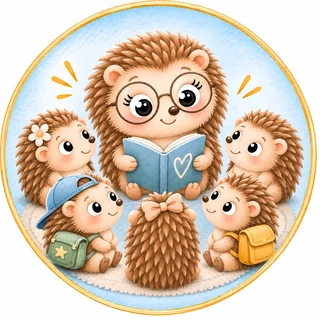
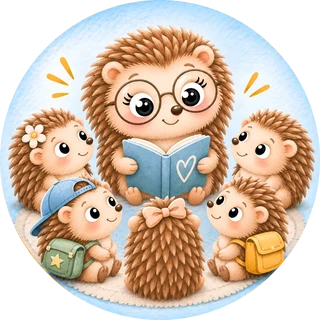
Kreisbilder sauber zugeschnitten, neue Anmeldeseite mit Werkzeug-Galerie und Shop-Knopf
Claude-Session: https://claude.ai/code/session_016s2NAEUroLpKusudZHa85o

diff --git a/app.js b/app.js
@@ -876,7 +876,10 @@
     document.body.classList.add('lp');
     UI.view = 'login';
     paint('<div class="login"><section class="login-hero"><a class="marke" href="#/"><span class="marke-bild"><img src="bilder/eule.webp" alt="" width="60" height="60"></span><span class="marke-text"><b>' + markeName() + '<i aria-hidden="true">✦</i></b><small>für Lehrpersonen</small></span></a>' +
-      '<div class="stack" style="gap:18px"><h1>Ihre Lernspiele an einem Ort.</h1><p>Spiele für die Klasse freigeben, den Fortschritt sehen und die Arbeitsstand-Tafel für den Wochenplan nutzen.</p></div>' +
+      '<div class="stack" style="gap:16px"><span class="login-klein">Für Ihren Schulalltag ✦</span><h1>Lernspiele und Werkzeuge an einem Ort.</h1>' +
+      '<p>Lernspiele freigeben, den Fortschritt der Kinder sehen und Ihre Klassenwerkzeuge nutzen. Alles in einer Klassenkiste, damit Sie nur noch ein Tool brauchen.</p></div>' +
+      '<div class="login-tools">' + LOGIN_TOOLS.map(function (t) {
+        return '<div class="ltool" tabindex="0"><img src="bilder/kacheln/' + t[0] + '.webp" alt="" width="84" height="84"><b>' + t[1] + '</b><span class="ltip" role="tooltip">' + t[2] + '</span></div>'; }).join('') + '</div>' +
       '<a class="kidlink" href="#/klasse">' + ic(I.play, 22) + '<span>Für Kinder: Hier geht\'s zum Klassen-Login</span></a></section>' +
       '<section class="login-form"><form data-a="login" class="stack"><div class="stack" style="gap:8px"><h2 style="font-size:34px">Anmelden</h2>' +
       '<p class="muted">Für Lehrpersonen mit Zugang zur ' + h(C.PORTAL_NAME) + '.</p></div>' +
@@ -886,8 +889,18 @@
       '<button class="btn primary" style="min-height:54px;font-size:18px">Anmelden</button>' +
       '<button type="button" class="btn" data-a="forgot">Passwort vergessen?</button>' +
       (T.loginInfo ? '<p class="note">' + h(T.loginInfo) + '</p>' : '') +
+      '<div class="login-shop"><span>Noch kein Login?</span>' + (C.SHOP_URL ? '<a class="btn amber" href="' + h(C.SHOP_URL) + '" target="_blank" rel="noopener">✦ Hol dir hier deinen Zugang</a>' : '<button type="button" class="btn amber" data-a="shopSoon">✦ Hol dir hier deinen Zugang</button>') + '</div>' +
       '</form></section></div>');
   };
+  var LOGIN_TOOLS = [
+    ['tagesfolie', 'Tagesfolie', 'Der Tag an der Wandtafel: Ablauf, Timer, Stundenplan, Zufallsname und mehr.'],
+    ['vokabelkiste', 'Vokabelkiste', 'Wörter üben mit Karteikasten, Spielen, Tagessternen und Fortschritt pro Kind.'],
+    ['hausaufgaben', 'Hausaufgabenheft', 'Aufgaben eintragen, kontrollieren, und die Kinder sehen alles am iPad.'],
+    ['arbeitsstand', 'Arbeitsstand', 'Wer kann helfen, wer hat eine Frage? Live an der Wandtafel.'],
+    ['pinnwand', 'Pinnwand', 'Ideen sammeln und gemeinsam abstimmen.'],
+    ['otterteich', 'Otterteich', 'Je leiser die Klasse, desto mehr Otter kommen an den Teich.'],
+    ['atelier', 'Atelier', 'Jedes Kind zeigt auf dem Lernpfad, wo es gerade steht.']];
+  ACT.shopSoon = function () { toast('Der Shop kommt bald. Melden Sie sich bis dahin bei ' + C.CONTACT + '.'); };
   ACT.login = async function (f) {
     T.loginErr = ''; T.loginEmail = f.elements.email.value.trim();
     try { await DB.signIn(T.loginEmail, f.elements.pw.value); }

diff --git a/style.css b/style.css
@@ -756,3 +756,31 @@ body.tt-dragging .tooltiles [data-tile]:not(.dragging){transition:transform .15s
 body.kidv .ic.ic-bild{flex:none;width:84px!important;height:84px!important;padding:0!important;border:0!important;background:none!important;border-radius:50%!important;box-shadow:0 6px 14px rgba(63,120,168,.2)!important;display:block!important;overflow:hidden}
 body.kidv .ic.ic-bild img{width:100%;height:100%;display:block;border-radius:50%}
 body.kidv .big-tile .ic.ic-bild{width:96px!important;height:96px!important}
+
+/* ---- Version 87: Kreisbilder mit eigenem Goldrand, neue Anmeldeseite ---- */
+body.lp .tooltile .tti.bild,body.kidv .ic.ic-bild{border:3px solid #d6ad45!important;box-shadow:0 0 0 3px #fff,0 6px 14px rgba(63,120,168,.2)!important;background:#fff!important}
+.banner-bild img,.kid-bild,.board-bild,.bildopt img{object-fit:cover}
+.login-klein{font-size:16px;letter-spacing:.12em;text-transform:uppercase;color:#3f78a8}
+body.lp .login-hero{justify-content:flex-start;gap:34px}
+body.lp .login-hero h1{font-size:clamp(38px,5vw,58px);font-weight:400;line-height:1.05}
+body.lp .login-hero p{color:#5f6963}
+.login-tools{display:grid;grid-template-columns:repeat(auto-fill,minmax(112px,1fr));gap:16px 10px;margin-top:auto}
+.ltool{position:relative;display:flex;flex-direction:column;align-items:center;gap:6px;text-align:center;cursor:default;outline:0}
+.ltool img{width:84px;height:84px;border-radius:50%;border:3px solid #d6ad45;box-shadow:0 0 0 3px #fff,0 8px 18px rgba(63,120,168,.2);background:#fff;transition:transform .25s}
+.ltool:hover img,.ltool:focus img{transform:translateY(-4px) rotate(-4deg) scale(1.06)}
+.ltool b{font-weight:400;font-size:18px;line-height:1.1}
+.ltip{position:absolute;bottom:calc(100% + 8px);left:50%;transform:translate(-50%,6px);width:220px;padding:10px 14px;border-radius:16px;background:#fff;border:1.5px solid #d6ad45;box-shadow:0 12px 28px rgba(63,120,168,.25);font-size:15px;line-height:1.35;color:#1f2421;opacity:0;pointer-events:none;transition:opacity .2s,transform .2s;z-index:5}
+.ltip::after{content:"";position:absolute;top:100%;left:50%;margin-left:-7px;border:7px solid transparent;border-top-color:#d6ad45}
+.ltool:hover .ltip,.ltool:focus .ltip{opacity:1;transform:translate(-50%,0)}
+body.lp .kidlink{margin-top:4px}
+.login-shop{display:flex;flex-direction:column;align-items:stretch;gap:8px;margin-top:10px;padding-top:18px;border-top:1.5px dashed rgba(214,173,69,.6);text-align:center;color:#5f6963}
+.login-shop .btn{min-height:50px;justify-content:center}
+.login-tools{grid-template-columns:repeat(auto-fill,minmax(82px,1fr))}
+.ltool img{width:72px;height:72px}
+.ltool b{font-size:16px}
+@media (max-width:760px){.login-hero,.login-form{flex:1 1 100%;min-width:0}.login-form{order:-1;padding:32px 20px 8px}}
+.ltip{width:min(220px,calc(100vw - 40px))}
+.ltool:first-child .ltip,.ltool:nth-child(3n+1) .ltip{left:0;transform:translate(0,6px)}
+.ltool:first-child:hover .ltip,.ltool:nth-child(3n+1):hover .ltip,.ltool:nth-child(3n+1):focus .ltip{transform:translate(0,0)}
+.ltool:first-child .ltip::after,.ltool:nth-child(3n+1) .ltip::after{left:36px}
+.login{overflow-x:hidden}

diff --git a/index.html b/index.html
@@ -9,15 +9,15 @@
 <link rel="preconnect" href="https://fonts.googleapis.com">
 <link rel="preconnect" href="https://fonts.gstatic.com" crossorigin>
 <link rel="stylesheet" href="https://fonts.googleapis.com/css2?family=Andika:wght@400;700&family=Fredoka:wght@400;500;600;700&display=swap">
-<link rel="stylesheet" href="style.css?v=86">
+<link rel="stylesheet" href="style.css?v=87">
 </head>
 <body>
 <div id="app" aria-live="polite"><p class="boot">Klassenkiste wird geladen …</p></div>
 <div id="print" aria-hidden="true"></div>
 <div id="toast" class="toast" role="status" aria-live="polite"></div>
 <script src="https://cdn.jsdelivr.net/npm/@supabase/supabase-js@2.105.0/dist/umd/supabase.js"></script>
-<script src="config.js?v=86"></script>
-<script src="db.js?v=86"></script>
-<script src="app.js?v=86"></script>
+<script src="config.js?v=87"></script>
+<script src="db.js?v=87"></script>
+<script src="app.js?v=87"></script>
 </body>
 </html>

diff --git a/config.js b/config.js
@@ -4,6 +4,8 @@ window.KN_CONFIG = {
   PORTAL_NAME: 'Klassenkiste',
   TAGLINE: 'Lernspiele für die Primarschule',
   CONTACT: 'primarschuleulchen@hotmail.com',
+  // Link zum Shop für «Noch kein Login?» (leer = Hinweis «kommt bald»)
+  SHOP_URL: '',
 
   // Verbindung zur Datenbank (Supabase). Der «Publishable key» darf öffentlich sein.
   SUPABASE_URL: 'https://nqqepdfupfmzghcjlkun.supabase.co',

diff --git a/CLAUDE.md b/CLAUDE.md
@@ -7,6 +7,7 @@ Knobelnest (sichtbarer Name: **«Klassenkiste»**, `C.PORTAL_NAME` in `config.js
 - Tafel-Spalten (Version 21): `classes.tafel_cols = {list:[{id,label,color}]}` (höchstens 6, `colList()`/`setTafelCols()`, Editor `colEditor()`); ohne `list` die drei Standardspalten. `tafel_set` prüft mit `_tafel_col_ok`. «helfen»/«frage» behalten ihre Sonderrolle (Hilfe-Hinweis).
 - Lehrperson: Reihenfolge der Werkzeug-Kacheln pro Lehrperson in `teacher_store` «kacheln» (`tileOrder()`; Kacheln direkt ziehen, Pointer-Events `tdStart`/`tdMove`, Finger nach 380 ms Halten). Tier-Vorlagen fürs Klassenbild in `bilder/maskottchen/` (`TIERE`).
 - Lehrperson: Reiter «Übersicht» (`T.tab = 'uebersicht'`, Start und Klick aufs Logo) = Klassen-Banner mit Werkzeug-Kacheln; Reiter «Spiele» = Fächer und Spiele (beides `T.tabSpiele`). Kachel-Bilder in `bilder/kacheln/` (`KACHEL_BILD`, `ttIcon()`).
+- Anmeldeseite: Werkzeug-Galerie mit Vorschau beim Darüberfahren (`LOGIN_TOOLS`), Knopf «Noch kein Login?» → `C.SHOP_URL` in `config.js` (leer = Hinweis «kommt bald»). Kreisbilder in `bilder/kacheln/` und `bilder/maskottchen/` sind rund zugeschnitten (durchsichtige Ecken), den Goldrand macht das CSS.
 - Kinderansicht: `body.kidv` (in `K.render`), heller Stil wie die Lehrpersonen-Seite, Schriften Fredoka/Andika bleiben. Startseite ohne Kopfleiste, «Abmelden» neben der Begrüssung (`K.shell(body, null)`).
 - Seite: https://primarschuleulchen.github.io/knobelnest/ (GitHub Pages, Branch `main`, Hauptordner)
 - Kinder: `…/knobelnest/#/klasse`
@@ -114,7 +115,7 @@ So läuft ein Werkzeug im Portal:
 
 ## Cache-Bremse (wichtig, sonst sehen Geräte alte Dateien)
 
-- **`index.html`:** `?v=N` bei allen vier Dateien um 1 erhöhen, sobald sich `app.js`, `db.js`, `style.css` oder `config.js` ändert (zurzeit `v=86`).
+- **`index.html`:** `?v=N` bei allen vier Dateien um 1 erhöhen, sobald sich `app.js`, `db.js`, `style.css` oder `config.js` ändert (zurzeit `v=87`).
 - **Werkzeug-Versionen in `app.js`:** `HEFT_VER`, `PIN_VER`, `OTTER_VER`, `ATELIER_VER`, `ZR_VER`, `VK_VER` und die Tagesfolie (`tagesfolie.html?v=' + ('38')`). Erhöhe die passende Version, wenn sich die Werkzeug-Seite ändert.
 
 ## Neue Version eines Werkzeugs einbauen
